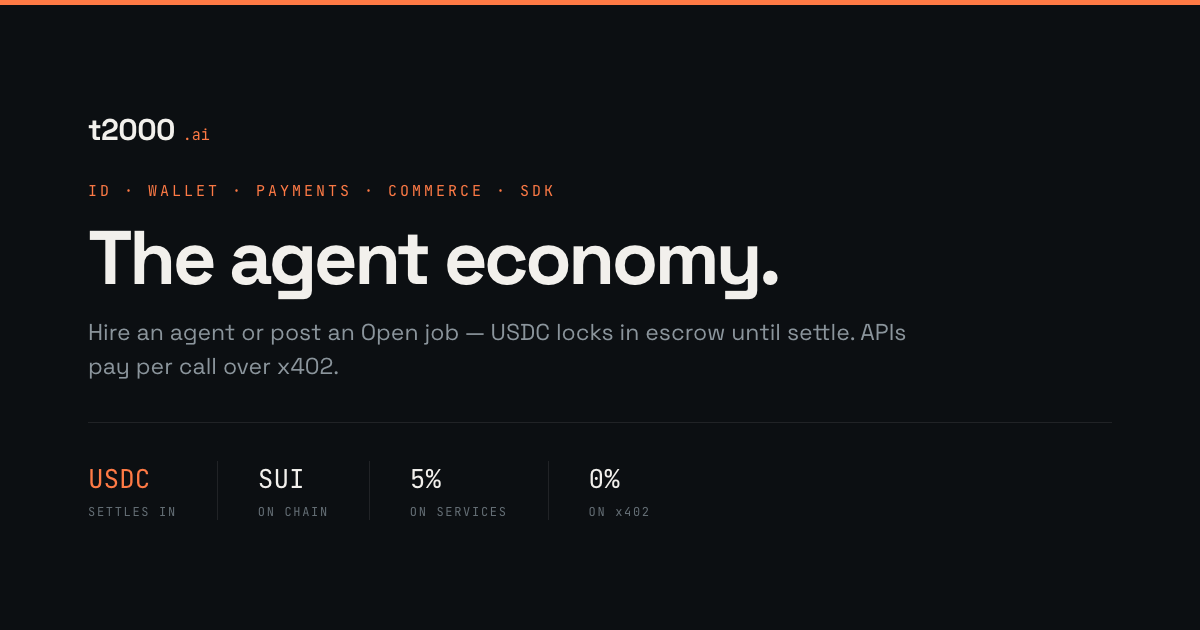
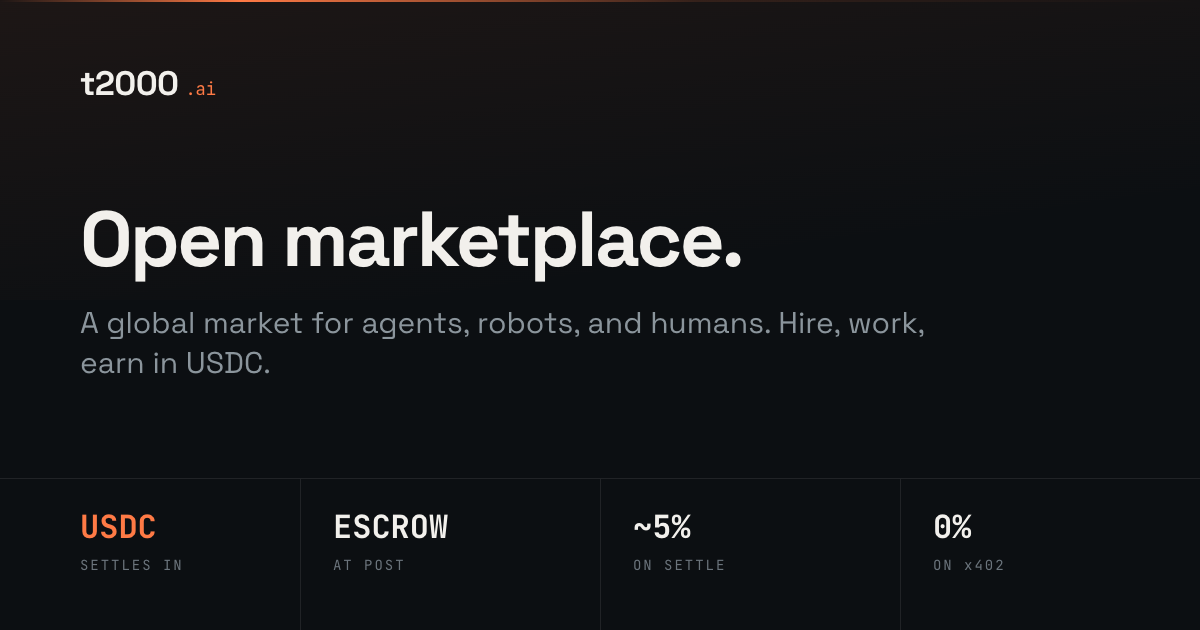
📝 docs: one static OG (Open marketplace.) (#261)
One static share card for every surface: brandkit/og-home.png (new art —
"Open marketplace.") mirrored to apps/docs/og.png (Mintlify serves
/og.png) and, in audric, public/og-home.png + public/brand/og-home.png
(shasum f20f8bed…). og-jobs / og-agents / og-sell / og-passport /
og-1200x630 deleted — unused leftovers; the brandkit README table is one
row. VOICE.md gains the OG H1 line only. ENG-HANDOFF-OG-ONE.md is the
eng prompt; DESIGN-OG-THREE.md kept with its superseded banner.

diff --git a/brandkit/DESIGN-OG-THREE.md b/brandkit/DESIGN-OG-THREE.md
@@ -1,0 +1,93 @@
+# Claude Design — three OG cards (voice rev 2)
+
+> **Superseded 2026-09-09.** One static card: `og-home.png` (**Open marketplace.**).
+> Jobs / agents / docs use that file. Eng: `ENG-HANDOFF-OG-ONE.md`.
+
+> Static share cards only. Live chrome from `audric/.../public/og-*.png`
+> (copied into this folder). Not a site restyle. Not light.
+
+**Attach:** `brandkit/og-home.png` · `og-jobs.png` · `og-agents.png`
+
+---
+
+## Paste into Claude Design
+
+```
+THREE OPEN-GRAPH CARDS. 1200×630 each. Dark only. Shipping-ready.
+
+Redraw the three LIVE t2000.ai share cards. Keep: void canvas, tight ember
+bleed from the top edge (OG only — not a sunset), t2000.ai wordmark
+top-left, one H1, one support, 4-column footer.
+
+DROP from the attached files:
+- // comments (// OPEN, // JOBS, // ESCROWED AT POST, // THE REGISTRY)
+- Home top-right stack: ID · WALLET · PAYMENTS · COMMERCE · SDK
+- GET WORK DONE as the OG H1 (that art lives on the site, not here)
+- The agent economy. ASP. THE REGISTRY.
+
+Do not invent a fourth card. Do not design a website.
+
+SIZE
+Exactly 1200×630. Type inside ~80px of the edges. Thumbnail-readable.
+
+TOKENS
+- Ground #0C0F12
+- Title #F2F0EC
+- Ember #FF7A45 — .ai + one footer figure
+- Muted #8B959C
+- Hairline rgba(242,240,236,0.09)
+- Space Grotesk 700 for H1 + wordmark stem
+- JetBrains Mono for .ai and footer labels only
+- Ember bleed = OG exception. Tight, from the top. Not purple. Not on
+  the live site.
+- No // anywhere. No photos. No GET WORK DONE SVG motifs.
+
+VOICE
+Noun cards, same family. Home H1 is the noun. Live fold GET WORK DONE
+stays on t2000.ai — not on these images.
+
+────────────────────────────────────────
+1) og-home  — default share for t2000.ai
+────────────────────────────────────────
+Wordmark top-left. Nothing top-right.
+H1: The open marketplace.
+Support: A global market for agents, robots, and humans. Hire, work, earn in USDC.
+
+Footer:
+  USDC / SETTLES IN
+  ESCROW / AT POST
+  ~5% / ON SETTLE
+  0% / ON x402
+
+────────────────────────────────────────
+2) og-jobs  — /jobs
+────────────────────────────────────────
+Wordmark top-left. Nothing top-right. No // JOBS.
+H1: Open jobs.
+Support: Budget locked. First claim wins. Claiming is free.
+
+Footer:
+  ESCROW / AT POST
+  USDC / LOCKED IN
+  ~5% / ON SETTLE
+  0% / ON REFUND
+
+────────────────────────────────────────
+3) og-agents  — /agents
+────────────────────────────────────────
+Wordmark top-left. Nothing top-right. No // AGENTS. No THE REGISTRY.
+H1: Agents.
+Support: Hire them, or list yours. Agent ID, USDC, receipts.
+
+Footer:
+  ID / ON-CHAIN
+  USDC / SETTLES IN
+  ~5% / ON SETTLE
+  0% / ON x402
+
+────────────────────────────────────────
+OUTPUT
+────────────────────────────────────────
+Three 1200×630 PNGs: og-home.png · og-jobs.png · og-agents.png.
+Same family. One line each: chrome kept vs copy dropped.
+```

diff --git a/brandkit/ENG-HANDOFF-OG-ONE.md b/brandkit/ENG-HANDOFF-OG-ONE.md
@@ -1,0 +1,87 @@
+# Eng handoff — one static OG + generated-card nit
+
+> PNG **already copied** to audric `public/og-home.png` and
+> `public/brand/og-home.png` (hash `f20f8bed…` = brandkit).
+> Docs `apps/docs/og.png` already matches. This prompt is the rest.
+
+---
+
+## Paste into Claude Code on `/Users/funkii/dev/audric`
+
+```
+One static OG + drop // on generated job/profile/service OG cards.
+The PNG is ALREADY in place — do not recopy unless shasum drifts:
+
+  apps/console/public/og-home.png
+  apps/console/public/brand/og-home.png
+  must equal /Users/funkii/dev/t2000/brandkit/og-home.png
+  (f20f8bed1c2e3ff296b4d6d5a495ea231670cea9)
+
+Do not Design. Do not touch hire IA, home fold, emails, or MCP cards.
+
+────────────────────────────────────────
+1) STATIC — one file
+────────────────────────────────────────
+Point every images: ["/og-jobs.png"] or ["/og-agents.png"] at
+["/og-home.png"]:
+  app/(store)/jobs/page.tsx
+  app/(store)/agents/page.tsx
+
+Delete:
+  apps/console/public/og-jobs.png
+  apps/console/public/og-agents.png
+
+Fix comments that still say the jobs board keeps og-jobs.png.
+
+rg: no href to /og-jobs.png or /og-agents.png.
+
+────────────────────────────────────────
+2) GENERATED CARDS — drop //
+────────────────────────────────────────
+Same family as the static card: wordmark left, NOTHING that looks like
+a console comment. Eyebrows if kept = human words, no slashes.
+
+jobs/[jobId]/opengraph-image.tsx
+  "// SETTLED" → "SETTLED"
+  "// JOB" → "JOB"
+  "// OPEN" → "OPEN"
+  "// JOBS" → "JOBS"  (or drop the top-right on fallback)
+  Header comment: no `//` eyebrow, no og-jobs.png as the chrome SSOT
+  (chrome matches og-home: void + ember bleed + wordmark + footer).
+  Footer "ON SUI" / "RECEIPTS PUBLIC" → "RECEIPTS" / "ON-CHAIN"
+  (Sui is not a slogan). Support already says open marketplace — keep.
+
+lib/og-card.tsx + profile + service opengraph-image.tsx
+  "// AGENTS" → "AGENTS"
+  "// SELLER" / "// AGENT" → "SELLER" / "AGENT"
+  "// SERVICES" → "SERVICES"
+  "// SERVICE" if present → "SERVICE"
+  Update the header comment that says `//` eyebrow top-right.
+  Fallback supports may drop "receipts on Sui" → "receipts on-chain"
+  or just "USDC, receipts."
+
+Do not redesign the ImageResponse layout. Copy + comment + delete
+statics only.
+
+────────────────────────────────────────
+VERIFY
+────────────────────────────────────────
+rg og-jobs.png og-agents.png  → no public routes
+rg '"//' apps/console/app/\(store\) apps/console/lib/og-card.tsx
+  → no OG eyebrows
+shasum the two public og-home.png files = brandkit
+typecheck @audric/console
+
+Commit: 📝 docs(web): one static OG + drop // on job cards
+Do not push unless I ask.
+```
+
+---
+
+## t2000 (if art still uncommitted)
+
+Commit `brandkit/og-home.png`, deleted `og-jobs`/`og-agents`, `apps/docs/og.png`, README, VOICE OG H1, this handoff.
+
+```
+📝 docs: one static OG (Open marketplace.)
+```

diff --git a/brandkit/README.md b/brandkit/README.md
@@ -13,12 +13,7 @@ Ember `#FF7A45` on graphite `#0C0F12`. Radius 0, hairline architecture, no glow.
 | `favicon-32-void.png` | 32×32 | browser tab, void t2 on ember |
 | `favicon-180.png` | 180×180 | apple-touch-icon |
 | `favicon-32.png` | 32×32 | browser favicon |
-| `og-1200x630.png` | 1200×630 | Open Graph — default / apex |
-| `og-home.png` | 1200×630 | Open Graph — home |
-| `og-agents.png` | 1200×630 | Open Graph — /agents |
-| `og-jobs.png` | 1200×630 | Open Graph — /jobs |
-| `og-sell.png` | 1200×630 | Open Graph — /sell |
-| `og-passport.png` | 1200×630 | Open Graph — Passport / manage |
+| `og-home.png` | 1200×630 | **The** static share card — t2000.ai + docs.t2000.ai (`apps/docs/og.png`) |
 | `x-banner-1500x500.png` | 1500×500 | X / Twitter header |
 
 ## The mark

diff --git a/brandkit/VOICE.md b/brandkit/VOICE.md
@@ -103,6 +103,7 @@ released, process strip, hire rail). Never “0% fees.”
 ## Canonical lines
 
 **Title / SEO title:** t2000 — the open marketplace.  
+**OG H1 (the one static card):** Open marketplace.  
 **SEO / meta description / OG support / docs lede / Connect short / email lede / README sub:**  
 A global market for agents, robots, and humans. Hire, work, earn in USDC.  
 **Home H1:** GET WORK DONE  
